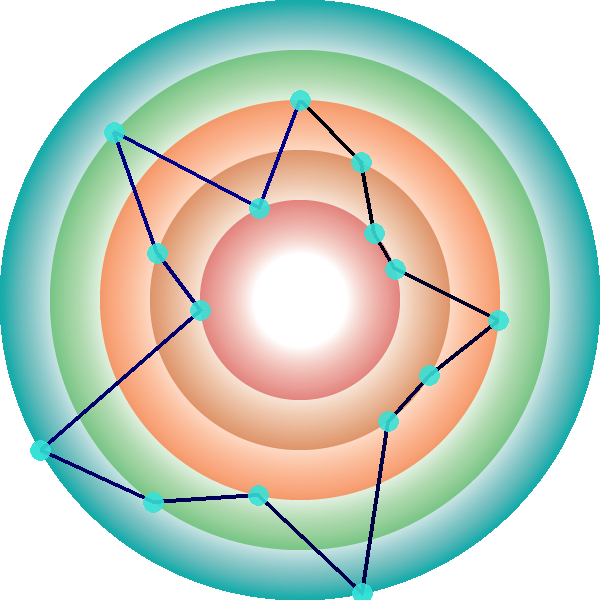
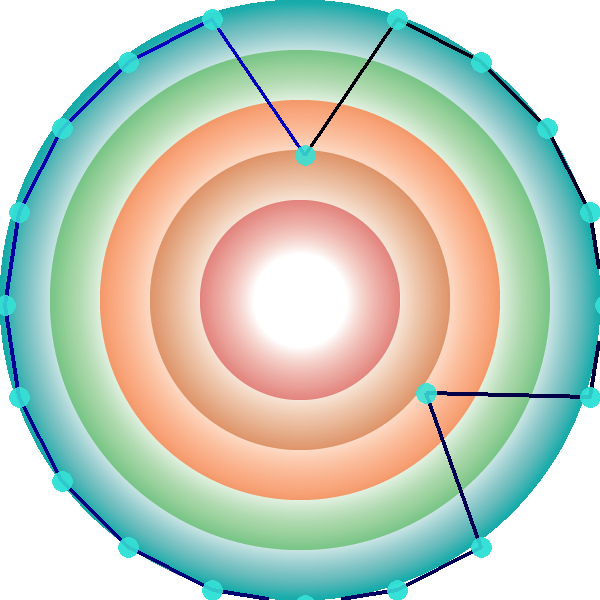
carmelo

diff --git a/assets/sass/diagram.scss b/assets/sass/diagram.scss
@@ -1,11 +1,19 @@
-#diagramMain{
-  background: url('/contents/images/site/diagramBack.png');
+#diagramMain {
+  grid-column: 1 / span all;
+  grid-row: 1 / span all;
+}
+
+#diagramSvg {
+  display: flex;
+  margin: 80px auto;
+  justify-self: center;
+  background: url("/contents/images/site/diagramBack.png");
   background-repeat: no-repeat;
   background-position: center;
-  background-size: cover;
-  width:600px;
-  height:600px;
-  position:absolute;
-  top:145px;
-  left:145px;
+  width: 650px;
+  height: 650px;
+}
+
+#diagramPng {
+  width: 20vw;
 }

diff --git a/src/Services/ResultsDiagram.php b/src/Services/ResultsDiagram.php
@@ -1,0 +1,175 @@
+<?php
+
+namespace App\Services;
+
+use App\Repository\ResultRepository;
+use App\Entity\User;
+
+
+class ResultsDiagram
+{
+  private $resultRepository;
+  private $user;
+  private $radius;
+  private $clRed;
+  private $clGreen;
+  private $clBlue;
+  private $cpRed;
+  private $cpGreen;
+  private $cpBlue;
+  private $stroke;
+  private $center;
+
+  private $alpha;
+  private $next;
+  private $results;
+  private $offset;
+
+  private $svgDiagram;
+
+  public function __construct(
+    ResultRepository $resultRepository,
+    User $user,
+    int $radius = 255,
+    int $clRed = 100,
+    int $clGreen = 50,
+    int $clBlue = 100,
+    int $cpRed = 50,
+    int $cpGreen = 100,
+    int $cpBlue = 255,
+    int $stroke = 5,
+    int $center = 120
+  ) {
+    $this->resultRepository = $resultRepository;
+    $this->user = $user;
+    $this->radius = $radius;
+    $this->clRed = $clRed;
+    $this->clGreen = $clGreen;
+    $this->clBlue = $clBlue;
+    $this->cpRed = $cpRed;
+    $this->cpGreen = $cpGreen;
+    $this->cpBlue = $cpBlue;
+    $this->stroke = $stroke;
+    $this->center = $center;
+    $this->svgDiagram = "";
+    $this->alpha = 360;
+    $this->next = -90;
+    $this->resutls = [];
+    $this->offset = 250;
+  }
+
+  public function doDiagram()
+  {
+
+    // Get Results with user language.
+    $this->getAlpha();
+    // Get Coordinates.
+    $this->getCoordinates();
+
+    $this->createSvgDiagram();
+
+    // Do choice offset.
+    // $this->doChoiceOffset();
+    // dump($this->results);
+
+    return $this->results;
+  }
+
+  public function getAlpha(): void
+  {
+    $resultRepository = $this->resultRepository->allResultNotZero($this->user);
+    $counter = 0;
+    foreach ($resultRepository as $key => $result) {
+      if ($result->getIdSubject()->getLanguage() == $this->user->getLanguage()) {
+        $counter++;
+        $this->results[$key]['choice'] = $result->getChoice();
+        $this->results[$key]['id'] = $result->getId();
+      }
+    }
+    $this->alpha = $this->alpha / $counter;
+  }
+
+  public function getCoordinates(): void
+  {
+    for ($i = 0; $i < count($this->results); $i++) {
+      $this->offset = 50 * ($this->results[$i]['choice'] + 1);
+      $this->results[$i] += [
+        'alpha' => $this->next,
+        'x' => $this->radius + cos(deg2rad($this->next)) * $this->radius,
+        'y' => $this->radius + sin(deg2rad($this->next)) * $this->radius,
+        'offsetX' => $this->radius + cos(deg2rad($this->next)) * $this->offset,
+        'offsetY' => $this->radius + sin(deg2rad($this->next)) * $this->offset,
+      ];
+      $this->next += $this->alpha;
+    }
+  }
+
+
+  public function createSvgDiagram(): void
+  {
+    // maybe another offset
+
+    $this->svgDiagram = '<svg height="750px" width="750px">';
+
+    $firstX = $this->results[0]['offsetX'] + $this->center;
+    $firstY = $this->results[0]['offsetY'] + $this->center;
+    // Creation of lines
+    foreach ($this->results as $key => $point) {
+      $pointX = $point['offsetX'] + $this->center;
+      $pointY = $point['offsetY'] + $this->center;
+      $this->svgDiagram .= "<line x1={$pointX} y1={$pointY} x2={$firstX} y2={$firstY}
+        style='stroke:rgb({$this->clRed},{$this->clGreen},{$this->clBlue});stroke-width:{$this->stroke};' />";
+      $firstX = $pointX;
+      $firstY = $pointY;
+    }
+    $firstX = $this->results[0]['offsetX'] + $this->center;
+    $firstY = $this->results[0]['offsetY'] + $this->center;
+    $this->svgDiagram .= "<line x1={$pointX} y1={$pointY} x2={$firstX} y2={$firstY}
+    style='stroke:rgb({$this->clRed},{$this->clGreen},{$this->clBlue});stroke-width:{$this->stroke};' />";
+    // Creation of Points
+    foreach ($this->results as $key => $dia) {
+      $rectX1 = $this->results[$key]['offsetX'] + $this->center;
+      $rectY1 = $this->results[$key]['offsetY'] + $this->center;
+      $this->svgDiagram .= "<circle cx={$rectX1} cy={$rectY1} r=10 style='fill:rgb({$this->cpRed}, {$this->cpGreen}, {$this->cpBlue});' />";
+    }
+    $this->svgDiagram .= '<use id="use" xlink:href="#circle2" /></svg>';
+  }
+
+  public function createPngDiagram()
+  {
+    $png = imagecreatefrompng('contents/images/results/diagramBack.png');
+    imagesetthickness($png, 4);
+    $lineColor=imagecolorallocate($png,$this->clRed,$this->clGreen,$this->clBlue);
+    $pointColor = imagecolorallocate($png, $this->cpRed, $this->cpGreen, $this->cpBlue);
+
+    $firstX = $this->results[0]['offsetX'] + $this->center;
+    $firstY = $this->results[0]['offsetY'] + $this->center;
+    foreach ($this->results as $key => $point) {
+      $pointX = $point['offsetX'] + $this->center;
+      $pointY = $point['offsetY'] + $this->center;
+      imageline($png, $pointX, $pointY, $firstX, $firstY, $lineColor);
+
+      $firstX = $pointX;
+      $firstY = $pointY;
+    }
+    $firstX = $this->results[0]['offsetX'] + $this->center;
+    $firstY = $this->results[0]['offsetY'] + $this->center;
+
+    imageline($png, $pointX, $pointY, $firstX, $firstY, $lineColor);
+
+    foreach ($this->results as $key => $dia) {
+      $rectX1 = $this->results[$key]['offsetX'] + $this->center;
+      $rectY1 = $this->results[$key]['offsetY'] + $this->center;
+      imagefilledellipse($png, $rectX1, $rectY1, 20, 20, $pointColor);
+    }
+
+    imagepng($png, 'contents/images/results/diagram-user-id.png');
+    imagedestroy($png);
+  }
+
+  public function getSvgDiagram(): string
+  {
+    return $this->svgDiagram;
+  }
+
+}

diff --git a/src/Controller/ResultDiagramController.php b/src/Controller/ResultDiagramController.php
@@ -2,11 +2,11 @@
 
 namespace App\Controller;
 
-use App\Services\ResultsToSvgDiagram;
+use App\Services\ResultsDiagram;
 use App\Repository\UserRepository;
 use App\Repository\ResultRepository;
-use Symfony\Bundle\FrameworkBundle\Controller\AbstractController;
 use Symfony\Component\Routing\Annotation\Route;
+use Symfony\Bundle\FrameworkBundle\Controller\AbstractController;
 
 
 /**
@@ -32,75 +32,15 @@ class ResultDiagramController extends AbstractController
     {
         $user = $this->userRepository->findOneById(3);
 
-        $resultsToSvgDiagram = new ResultsToSvgDiagram(
+        $resultsDiagram = new ResultsDiagram(
             $this->resultRepository,
             $user
         );
+        $resultsDiagram->doDiagram();
+        $resultsDiagram->createPngDiagram();
 
-
-        imagesetthickness($im, 4);
-
-        foreach ($diagram as $key => $point) {
-            $bunt = $key * 10;
-            $pointX = $point['offsetX'] + $offset;
-            $pointY = $point['offsetY'] + $offset;
-            imageline($im, $pointX, $pointY, $firstX, $firstY, $bunt);
-
-            $firstX = $pointX;
-            $firstY = $pointY;
-        }
-        $firstX = $diagram[0]['offsetX'] + $offset;
-        $firstY = $diagram[0]['offsetY'] + $offset;
-
-        imageline($im, $pointX, $pointY, $firstX, $firstY, $bunt);
-
-        foreach ($diagram as $key => $dia) {
-            $rectX1 = $diagram[$key]['offsetX'] + $offset;
-            $rectY1 = $diagram[$key]['offsetY'] + $offset;
-            $color = $key * 20;
-            imagefilledellipse($im, $rectX1, $rectY1, 20, 20, 255255255);
-        }
-
-        imagepng($im, 'contents/images/site/diagram3.png');
-        imagedestroy($im);
-
-        foreach ($diagram as $key => $dia) {
-            $rectX1 = $diagram[$key]['offsetX'] + $offset;
-            $rectY1 = $diagram[$key]['offsetY'] + $offset;
-            $color = $key * 20;
-            $svgDiagram .= "<circle cx={$rectX1} cy={$rectY1} r=10 style='fill:rgb(0,{$color},{$color});' />";
-        }
-
-
-
-        // foreach ($diagram as $key => $dia) {
-        //     $color = $key * 20;
-        //     $counter--;
-        //     $rectX2 = $diagram[$key]['x'] + $rectCorp;
-        //     $rectY2 = $diagram[$key]['y'] + $rectCorp;
-        //     if ($counter != 0) {
-
-        //         $rectX1 = $diagram[$key+1]['x'] + $rectCorp;
-        //         $rectY1 = $diagram[$key+1]['y'] + $rectCorp;
-        //         $string .= "
-        //         <line x1={$rectX2} y1={$rectY2} x2={$rectX1} y2={$rectY1} style='stroke:rgb(0,{$color},{$color});stroke-width:2' />";
-        //         // <circle id=circlel cx={$rectX1} cy={$rectY1} r=10 style='fill:rgb(0,{$color},{$color});' />";
-        //     }else
-        //     {
-        //         $string .= "<line x1={$rectX1} y1={$rectY1} x2={$first['x']} y2={$first['y']} style='stroke:rgb(0,{$color},{$color});stroke-width:2' />";
-        //         // <circle id=circle2 cx={$first['x']} cy={$first['y']} r=10 style='fill:rgb(0,{$color},{$color});'/>";
-        //     }
-        // }
-
-
-
-
-
-
-        $svgDiagram .= '<use id="use" xlink:href="#circle2" /></svg>';
         return $this->render('result_diagram/result_diagram.html.twig', [
-            'diagram' => $diagram,
-            'svgDiagram' => $svgDiagram,
+            'svgDiagram' => $resultsDiagram->getSvgDiagram(),
 
         ]);
     }

diff --git a/src/Migrations/Version20200428195408.php b/src/Migrations/Version20200428195408.php
@@ -10,7 +10,7 @@ use Doctrine\Migrations\AbstractMigration;
 /**
  * Auto-generated Migration: Please modify to your needs!
  */
-final class Version20200428112839 extends AbstractMigration
+final class Version20200428195408 extends AbstractMigration
 {
     public function getDescription() : string
     {
